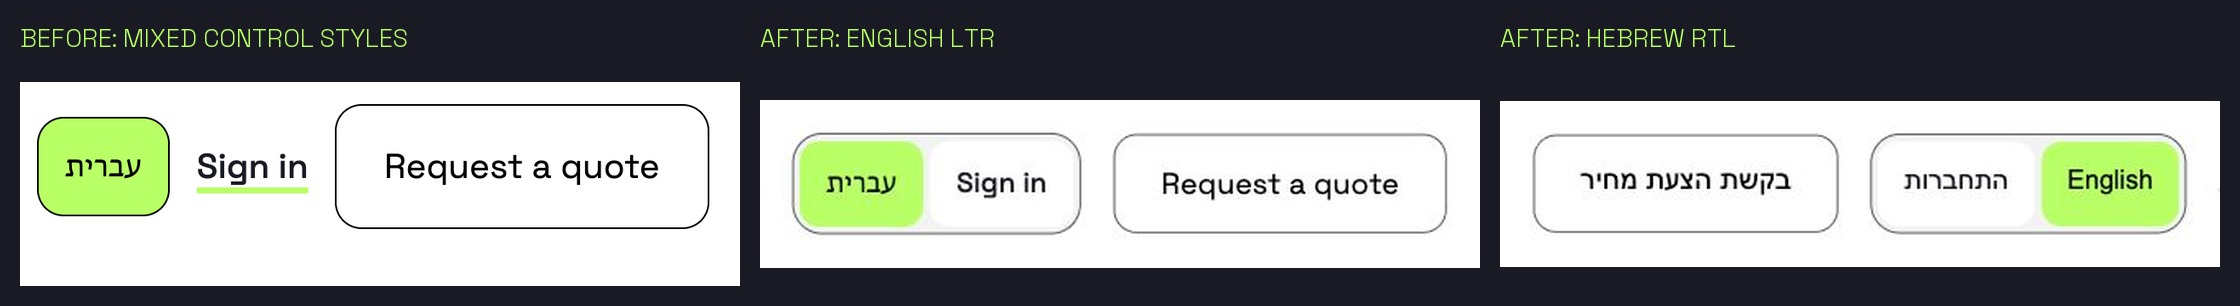
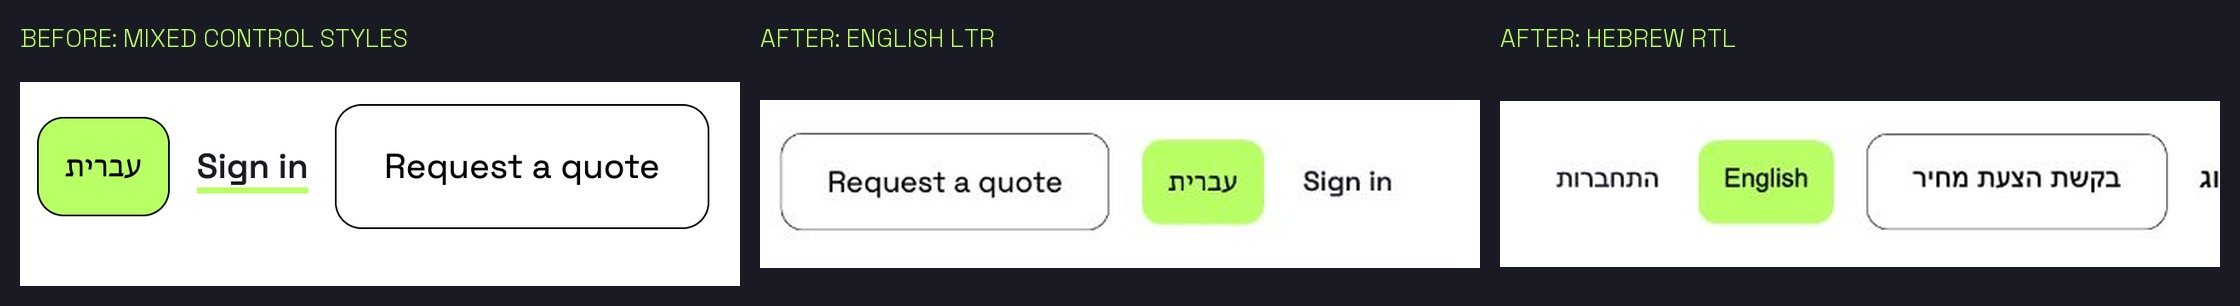
fix: simplify header account actions

Changed region(s): [[0.3438, 0.4118, 0.6562, 0.7941], [0.6875, 0.4118, 1.0, 0.7941]]

diff --git a/sources/scss/main.scss b/sources/scss/main.scss
@@ -1451,12 +1451,12 @@ html[dir="rtl"] .carousel-button--next .icon-mask {
 
   .site-nav__account {
     display: inline-flex;
-    gap: 4px;
+    gap: 8px;
     width: auto;
-    padding: 4px;
-    border: 1px solid var(--black);
-    border-radius: 18px;
-    background: var(--grey);
+    padding: 0;
+    border: 0;
+    border-radius: 0;
+    background: transparent;
   }
 
   .site-nav__account .site-nav__login,
@@ -1468,11 +1468,12 @@ html[dir="rtl"] .carousel-button--next .icon-mask {
 
   .site-nav__account .site-nav__login {
     padding-inline: 16px;
+    background: transparent;
     font-size: 17px;
   }
 
   .site-nav__account .site-nav__login:hover {
-    background: var(--white);
+    background: var(--grey);
   }
 
   .site-nav__account .language-toggle {
@@ -1919,7 +1920,8 @@ html[dir="rtl"] .carousel-button--next .icon-mask {
   }
 
   .site-nav__account {
-    padding: 3px;
+    gap: 6px;
+    padding: 0;
   }
 
   .site-nav__account .site-nav__login,

diff --git a/sources/index.html b/sources/index.html
@@ -41,6 +41,7 @@
             <li><a href="#pricing">Pricing</a></li>
             <li><a href="#blog">Blog</a></li>
           </ul>
+          <a class="button button--outline site-nav__cta" href="#contact">Request a quote</a>
           <div class="site-nav__account">
             <button
               class="language-toggle"
@@ -53,7 +54,6 @@
             </button>
             <a class="site-nav__login" href="sign-in.html">Sign in</a>
           </div>
-          <a class="button button--outline site-nav__cta" href="#contact">Request a quote</a>
         </nav>
       </div>
       <button class="nav-backdrop" type="button" aria-label="Dismiss navigation overlay" data-nav-backdrop></button>

diff --git a/design-qa.md b/design-qa.md
@@ -86,7 +86,7 @@ The comparison boards were generated from the approved visual and browser captur
 
 - Source current-state crop: `docs/design-qa/header-actions-reference.png` at 846 × 240 pixels.
 - Implementation: `http://127.0.0.1:4173/index.html`.
-- Desktop evidence: `docs/design-qa/header-actions-desktop-en.jpg` and `docs/design-qa/header-actions-desktop-he.jpg`, captured from a 1600 × 900 CSS viewport. The in-app capture files are 1976 × 1125 pixels because the browser viewport override reports DPR 0.8; the focused action regions were cropped using CSS-aligned coordinates before comparison.
+- Desktop evidence: `docs/design-qa/header-actions-desktop-en.jpg` and `docs/design-qa/header-actions-desktop-he.jpg`, captured from a 1600 × 900 CSS viewport as 1581 × 889 visible-page images. The 437 × 102 and 442 × 102 action crops were normalized to matching 720px-wide comparison panels.
 - Mobile evidence: `docs/design-qa/header-actions-mobile-en.jpg` and `docs/design-qa/header-actions-mobile-he.jpg`, captured from a 390 × 844 CSS viewport as 488 × 1054 pixel files at DPR 0.8 and normalized in the comparison board.
 - States: English LTR and Hebrew RTL; desktop navigation visible; mobile navigation open with the menu control focus-visible.
 
@@ -95,18 +95,18 @@ The comparison boards were generated from the approved visual and browser captur
 - Before/English/Hebrew focused comparison: `docs/design-qa/header-actions-comparison.jpg`.
 - English/Hebrew mobile comparison: `docs/design-qa/header-actions-mobile-comparison.jpg`.
 
-The combined focused input confirms that the previous mixed treatment—standalone lime language button, underlined account link, and substantially taller quote button—has been replaced by a coherent utility pair beside a distinct conversion action. The two related utilities now share one gray outlined container, matching inset radii and equal height; the quote CTA uses the same 60px desktop rhythm while remaining separate and visually dominant.
+The combined focused input confirms that the quote action now precedes the language/sign-in utilities in English and mirrors naturally in Hebrew. The utility pair no longer sits inside an outlined gray capsule: the language action keeps its lime fill, sign-in reads as a clean text action, and the bordered quote remains the distinct conversion control. On mobile, the quote action appears first at full width, followed by two equal utility targets.
 
 ### Findings
 
 - No actionable P0, P1, or P2 issues remain in the refined header region.
 - Fonts and typography: Space Grotesk, weight hierarchy, line height, and label scale remain consistent with the landing-page navigation. The account action now reads as a control rather than an underlined inline link.
-- Spacing and layout rhythm: desktop controls share a 60px outer height, 4px inset rhythm, 12–18px radii, and balanced gaps. The tight 1120px desktop breakpoint keeps positive space between the wordmark and navigation without overflow. Mobile utilities use equal columns above the full-width CTA.
+- Spacing and layout rhythm: the 60px quote control leads into a compact, borderless utility pair with an 8px desktop gap. The tight 1120px desktop breakpoint keeps 60px of positive space between the wordmark and first navigation item without overflow. Mobile places the full-width quote above equal utility columns.
 - Colors and tokens: existing lime, gray, white, near-black, border, focus, and transition tokens are reused; no new palette or elevation language was introduced.
 - Image and asset quality: this region contains no image assets. The existing Positivus brand asset remains unchanged and unmirrored.
 - Copy and content: English and Hebrew labels and routes remain unchanged. The target-language control stays recognizable, while the account and quote actions translate with the rest of the landing page.
-- Responsiveness and RTL: desktop and mobile layouts have no root overflow. Hebrew reverses the action order and alignment naturally, while the account pair remains semantically grouped and the brand lockup preserves LTR orientation.
-- Accessibility: language, sign-in, and quote remain native interactive elements with 48px-or-larger targets. Focus-visible treatment remains clearly visible, hover/active feedback is retained, and the mobile menu remains keyboard dismissible.
+- Responsiveness and RTL: desktop and mobile layouts have no root overflow. Hebrew mirrors the quote/utility sequence naturally, while the account pair remains semantically grouped and the brand lockup preserves LTR orientation.
+- Accessibility: language, sign-in, and quote remain native interactive elements with 48px-or-larger targets. Desktop removes only the enclosing decorative border; mobile retains individual control outlines for clear tap affordances. Focus-visible treatment remains clearly visible, hover/active feedback is retained, and the mobile menu remains keyboard dismissible.
 
 ### Comparison history
 
@@ -117,5 +117,9 @@ The combined focused input confirms that the previous mixed treatment—standalo
    - Fix: reduced intermediate navigation gaps, label size, and horizontal control padding only between 1120px and 1290px.
    - Post-fix evidence: the 1120 × 900 browser check reports no overflow or overlap and retains a positive brand-to-navigation gap.
 3. Mobile review found no remaining P0/P1/P2 issues after the controls were placed in equal columns above the full-width quote CTA. Focus-visible, English, Hebrew, and RTL states remain legible and balanced.
+4. The follow-up annotation identified a P2 hierarchy issue: the account utilities still preceded the quote action and their shared outlined capsule added visual weight the user did not want.
+   - Fix: moved the quote block before the account block in the navigation source and removed the desktop account wrapper's border, gray fill, radius, and inset padding. The sign-in action is now borderless, while the mobile controls retain individual outlines for tap clarity.
+   - Post-fix evidence: `docs/design-qa/header-actions-comparison.jpg` shows the reordered, capsule-free desktop cluster in English and Hebrew; `docs/design-qa/header-actions-mobile-comparison.jpg` confirms the matching quote-first mobile sequence.
+5. Final desktop, tight-desktop, mobile, English, and Hebrew comparison found no remaining P0/P1/P2 issues in the revised header actions.
 
 final result: passed

diff --git a/docs/design-qa.md b/docs/design-qa.md
@@ -6,7 +6,7 @@ The approved Green Gateway v2 authentication system has its own complete source-
 
 ## Header action refinement
 
-The landing-page language, sign-in, and quote controls were refined and rechecked in English LTR, Hebrew RTL, desktop, tight-desktop, and open-mobile-menu states. Focused before/after evidence is stored in `docs/design-qa/header-actions-comparison.jpg` and `docs/design-qa/header-actions-mobile-comparison.jpg`; no actionable P0/P1/P2 issues remain.
+The landing-page quote action now precedes the language/sign-in utilities, and the desktop utility pair no longer has an enclosing border or gray capsule. The controls were rechecked in English LTR, Hebrew RTL, desktop, tight-desktop, and open-mobile-menu states. Focused before/after evidence is stored in `docs/design-qa/header-actions-comparison.jpg` and `docs/design-qa/header-actions-mobile-comparison.jpg`; no actionable P0/P1/P2 issues remain.
 
 ## Comparison Target
 

diff --git a/CHANGELOG.md b/CHANGELOG.md
@@ -11,6 +11,10 @@ All notable changes to this project are documented in this file. The format foll
 - Accessible client-side form validation, password guidance, one-time-code entry, loading feedback, focus management, and keyboard-operable controls.
 - Authentication visual-QA evidence, automated route validation, and unit tests for the fake-auth state helpers.
 
+### Changed
+
+- Reordered the landing-page quote and account actions, and simplified the desktop language/sign-in treatment by removing its enclosing capsule.
+
 ## [1.0.0] - 2026-08-09
 
 ### Added
